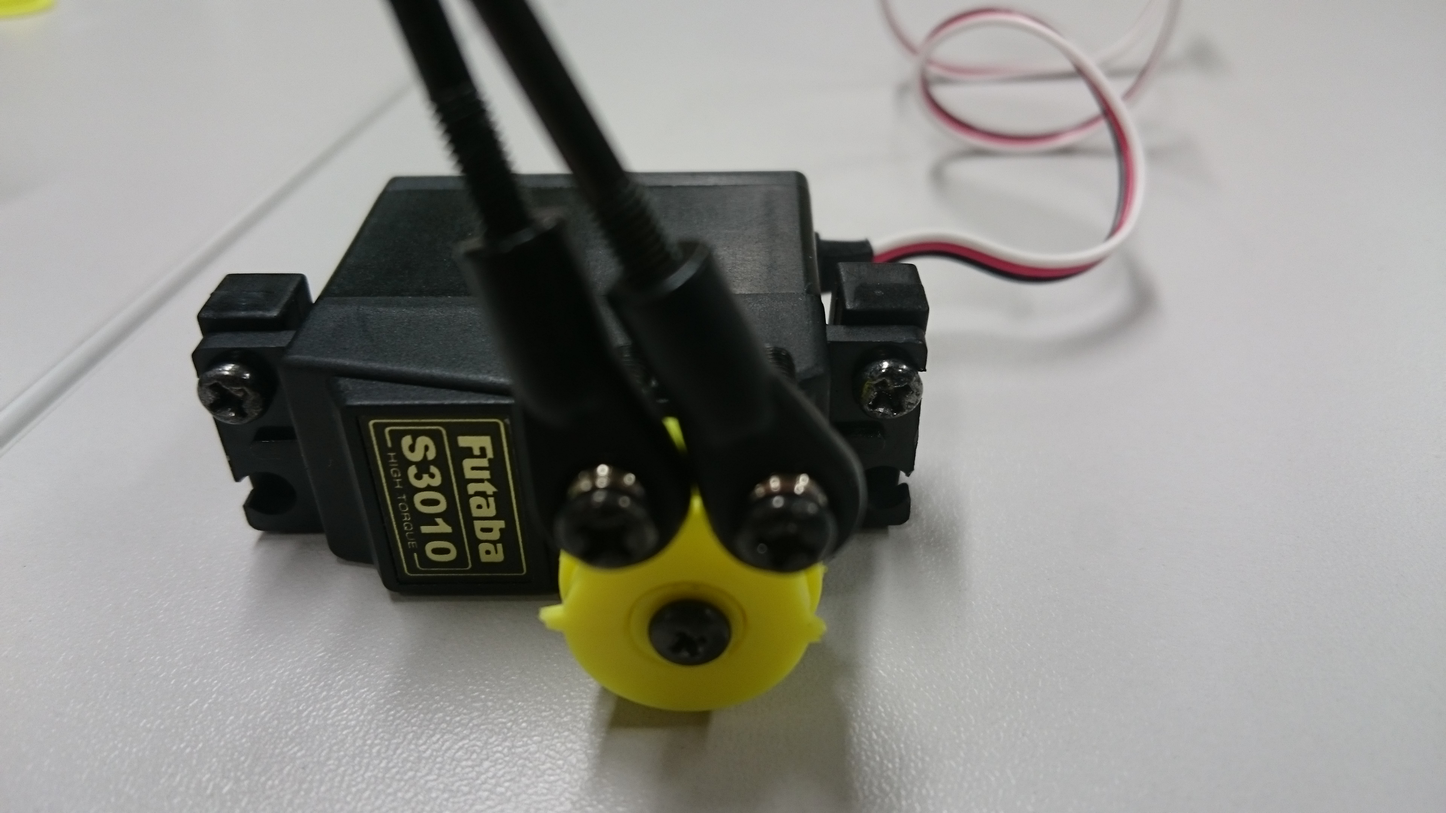
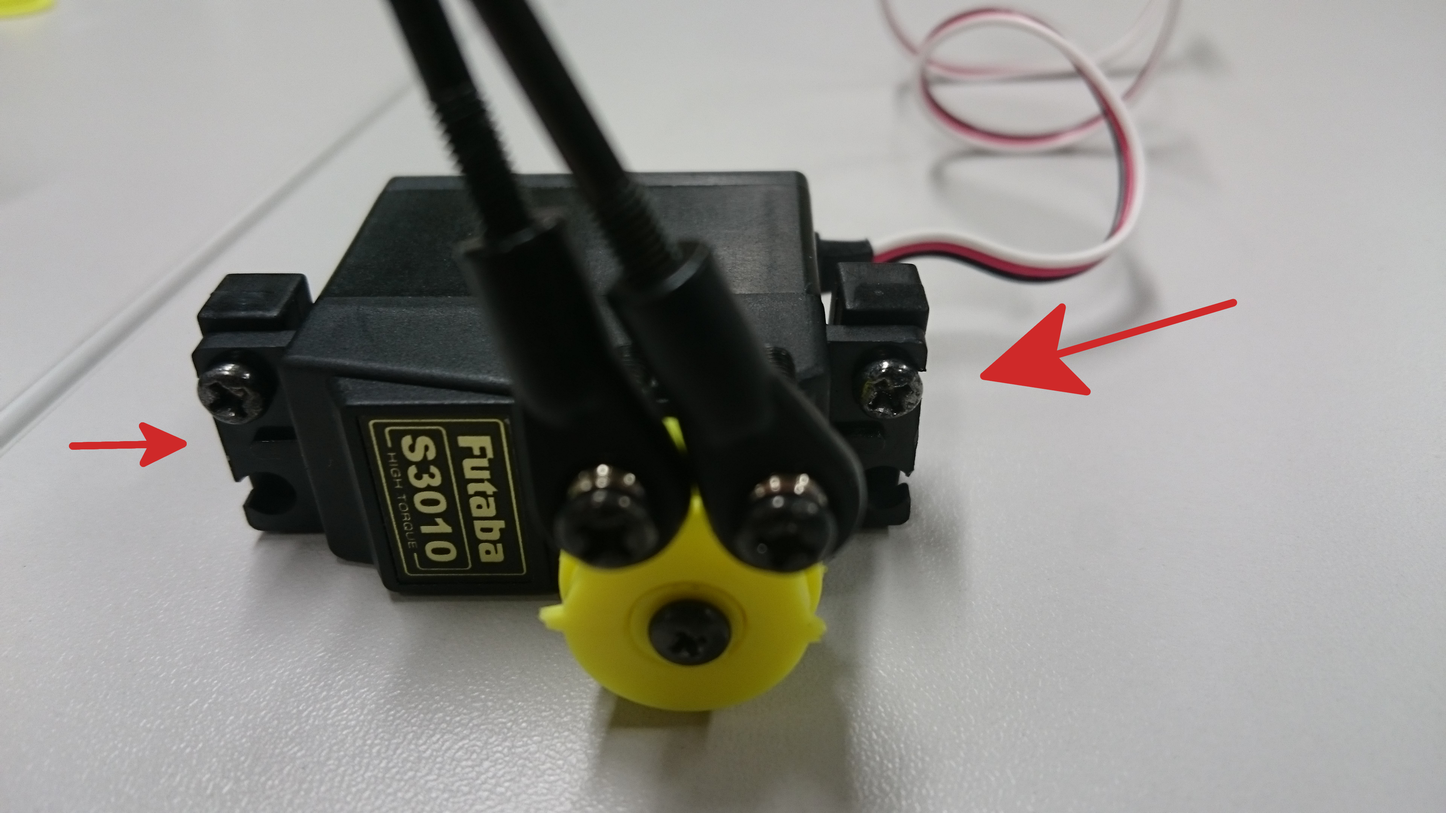
Finished car guide
* added captions for figures
* edited some figures for clarity
* added a bit more important information

Changed region(s): [[0.6562, 0.3722, 0.8438, 0.4963], [0.0312, 0.5273, 0.125, 0.5894]]

diff --git a/source/car_guide.rst b/source/car_guide.rst
@@ -14,13 +14,19 @@ Inventory
 
 .. figure:: Pictures/03-01Components.jpg
    :alt: The items you are given
+   :align: center
    :name: fig:comp_init
+
+   All the items you should have received
 
 The big box you are given should have the same contents as :numref:`fig:comp_init`: another smaller box, containing the car and more, the camera board, the camera lens and some cables, the servo, the FRDM-KL25Z board and a USB cable.
 
 .. figure:: Pictures/03-02Components2.jpg
    :alt: Contents of small box
+   :align: center
    :name: fig:comp_init_car
+
+   Contents of the small box
 
 The contents of the smaller box are the actual car, a bag with screws, nuts and more and a second bag with pieces to help you assemble your car. The screwdriver is not included, but you will need it to get everything together.
 
@@ -29,68 +35,108 @@ Installing the servo
 
 The first step is installing the servo. This process is more or less set in stone, but there are certain points where you can get creative.
 
-First, take out the servo and the four yellow plastic pieces presented in :numref:`fig:serv_comps`.
+First, take out the servo and the four yellow plastic pieces presented in :numref:`fig:serv_comps`. Note that you might have **multiple** yellow gears. If you look closely, they should have two letters on them, indicating which servo maker they work for. Look on the servo to find the maker's name, then the five possible letter combinations on the gear are HI (Hitec), FU (Futaba), SP (Spare), JR and SA (Sanwa).
 
 .. figure:: Pictures/03-03ServoComponents.jpg
    :alt: Components to start off with
+   :align: center
    :name: fig:serv_comps
+
+   Pieces required to replace the servo gear
 
 Then, combine the yellow parts as below:
 
 .. figure:: Pictures/03-04ServoYellow.jpg
    :alt: Combined yellow parts
+   :align: center
 
-Unscrew the black connector from the servo and replace it with the yellow one you just made. Use the same screw and remember to add in the small yellow piece to fasten everything together.
+   The replacement servo gear put together
+
+Unscrew the black connector from the servo and replace it with the yellow one you just made. Use the same screw and remember to add in the small yellow piece to fasten everything together. It is important to insert the new connector aligned; for our particular servo, you can see a correct alignment in :numref:`fig:servo_repl`; notice how the part sticking out is perpendicular with the servo placed sideways. Not inserting the mechanism correctly will only be noticeable when you zero the servo later on using Simulink.
 
 .. figure:: Pictures/03-05ServoDisassemble.jpg
    :alt: Disassembled servo
+   :align: center
+
+   Dissassembled servo
 
 .. figure:: Pictures/03-06ServoReplaced.jpg
    :alt: Servo gear replaced
+   :align: center
+   :name: fig:servo_repl
+
+   Servo with gear replaced
 
 The next step is to assemble the axles connecting the servo to the wheels. The pieces you need are shown in :numref:`fig:axle_pieces` and the expected result is in :numref:`fig:axle_assemble`.
 
 .. figure:: Pictures/03-07AxlePieces.jpg
    :alt: Axle pieces
+   :align: center
    :name: fig:axle_pieces
+
+   Pieces required to assemble the axles
 
 .. figure:: Pictures/03-08AxleAssemble.jpg
    :alt: Assembled axles
+   :align: center
    :name: fig:axle_assemble
+
+   Assembled axles
 
 We also need to insert the bearings in the open end of the axles, as shown in :numref:`fig:axle_bearings`.
 
 .. figure:: Pictures/03-09AxleBearings.jpg
    :alt: Assembled axles with bearings
+   :align: center
    :name: fig:axle_bearings
+
+   Assembled axles with inserted bearings
 
 Once we have our assembled axles, we need to assemble them with the servo. For this, we use two screws and two nuts to fasten them.
 
 .. figure:: Pictures/03-10ServoAxlesElements.jpg
    :alt: Components needed to assemble axels to servo
+   :align: center
    :name: fig:servo_axle_comps
+
+   Pieces required to attach axles to servos
 
 .. figure:: Pictures/03-11ServoAxlesAssemble.jpg
    :alt: Servo with the axles attached
+   :align: center
    :name: fig:servo_axle_attach
+
+   Servo with the axles attached
 
 The last step is to actually put the servo on the car. Gather the items from :numref:`fig:servo_car_comps`, add the plastic blocks to the servo block (:numref:`fig:servo_car_blocks`), then insert the servo in its slot, towards the front of the car (:numref:`fig:servo_car_insert`). Finally, fasten it in place with screws on the underside of the car (:numref:`fig:servo_car_bottom`).
 
 .. figure:: Pictures/03-12ServoCarComps.jpg
    :alt: Pieces required to attach servo to car
+   :align: center
    :name: fig:servo_car_comps
+
+   Pieces required to attach the servo to the car
 
 .. figure:: Pictures/03-13ServoCarBlocks.jpg
    :alt: Attaching plastic blocks to servo
+   :align: center
    :name: fig:servo_car_blocks
+
+   Attaching the plastic blocks to the servo
 
 .. figure:: Pictures/03-14ServoCarInsert.jpg
    :alt: Inserted servo
+   :align: center
    :name: fig:servo_car_insert
+
+   Servo inserted in its socket in the car
 
 .. figure:: Pictures/03-15ServoCarBottom.jpg
    :alt: Bottom of the car with servo screws
+   :align: center
    :name: fig:servo_car_bottom
+
+   Screws securing the servo on the car
 
 Installing the FRDM-KL25Z board
 -------------------------------
@@ -105,17 +151,26 @@ You can see an example in :numref:`fig:board_fitted`. This particular method is 
 
 .. figure:: Pictures/03-16BoardFitted.jpg
    :alt: FRDM board fitted to the car
+   :align: center
    :name: fig:board_fitted
 
-:numref:`fig:cabling_battery` and :numref:`fig:cabling_front` show you how the cables from the battery block (first picture), camera and servo (second picture) should be inserted. However, we suggest you ask an expert, if available, to ensure everything is fine. As we said, putting them in the wrong way can lead to short-circuiting your board and is very dangerous.
+   Board fitted to the car
+
+:numref:`fig:cabling_battery` and :numref:`fig:cabling_front` show you how the cables from the battery block (first picture) and servo (second picture) should be inserted. Note that the black cable should be on the right. However, we suggest you ask an expert, if available, to ensure everything is fine. As we said, putting them in the wrong way can lead to short-circuiting your board and is very dangerous.
 
 .. figure:: Pictures/03-17CablingBattery.jpg
    :alt: Battery cables
+   :align: center
    :name: fig:cabling_battery
+
+   Battery cables going into the board
 
 .. figure:: Pictures/03-18CablingFront.jpg
    :alt: Camera and servo cables
+   :align: center
    :name: fig:cabling_front
+
+   Camera and servo cables
 
 Putting together the camera and building a mount
 ------------------------------------------------
@@ -124,21 +179,36 @@ The first part is fairly straight-forward: screw the camera lens and the sensor 
 
 .. figure:: Pictures/03-19CameraParts.jpg
    :alt: Camera parts
+   :align: center
    :name: fig:camera_parts
+
+   Required camera parts
 
 .. figure:: Pictures/03-20CameraAssemble.jpg
    :alt: Assembled camera
+   :align: center
    :name: fig:camera_assemble
+
+   Assembled camera
 
 The second part is completely up to you. You must build a mount for the camera, from whatever items you have available. We provide some guiding images that might help you, but note that you might not have similar materials available. Some guidelines for making a good mount:
 
 * make sure it's stable and well-attached to the car. Again, in the actual race, your car might be going fast, so it is a possibility that the mount might be thrown off. Make sure you test it thoroughly;
-* the car should be facing downwards, looking in front of the car. You want to be able to see what's coming and adjust your controls accordingly. How far you want to see is up to you, but make sure the camera is placed such that it can see the track and any guiding lines.
+* the camera should be facing downwards, looking in front of the car. You want to be able to see what's coming and adjust your controls accordingly. How far you want to see is up to you, but make sure the camera is placed such that it can see the track and any guiding lines.
 
-**add more figures here**
+Some examples of mounts can be found at the following links:
+
+* `two examples on the Freescale Community website <https://community.freescale.com/docs/DOC-1018>`_
+* `a very simple example with zip ties <https://community.freescale.com/videos/1567>`_
+
+.. figure:: Pictures/03-21CameraMount1.jpg
+   :alt: Camera mount example 1
+   :align: center
+   :name: fig:camera_mount1
+
+   An example camera mount
 
 Additional resources
 --------------------
 
 You can find more resources available on the corresponding `Freescale community website page <https://community.freescale.com/docs/DOC-1014>`_.
-
